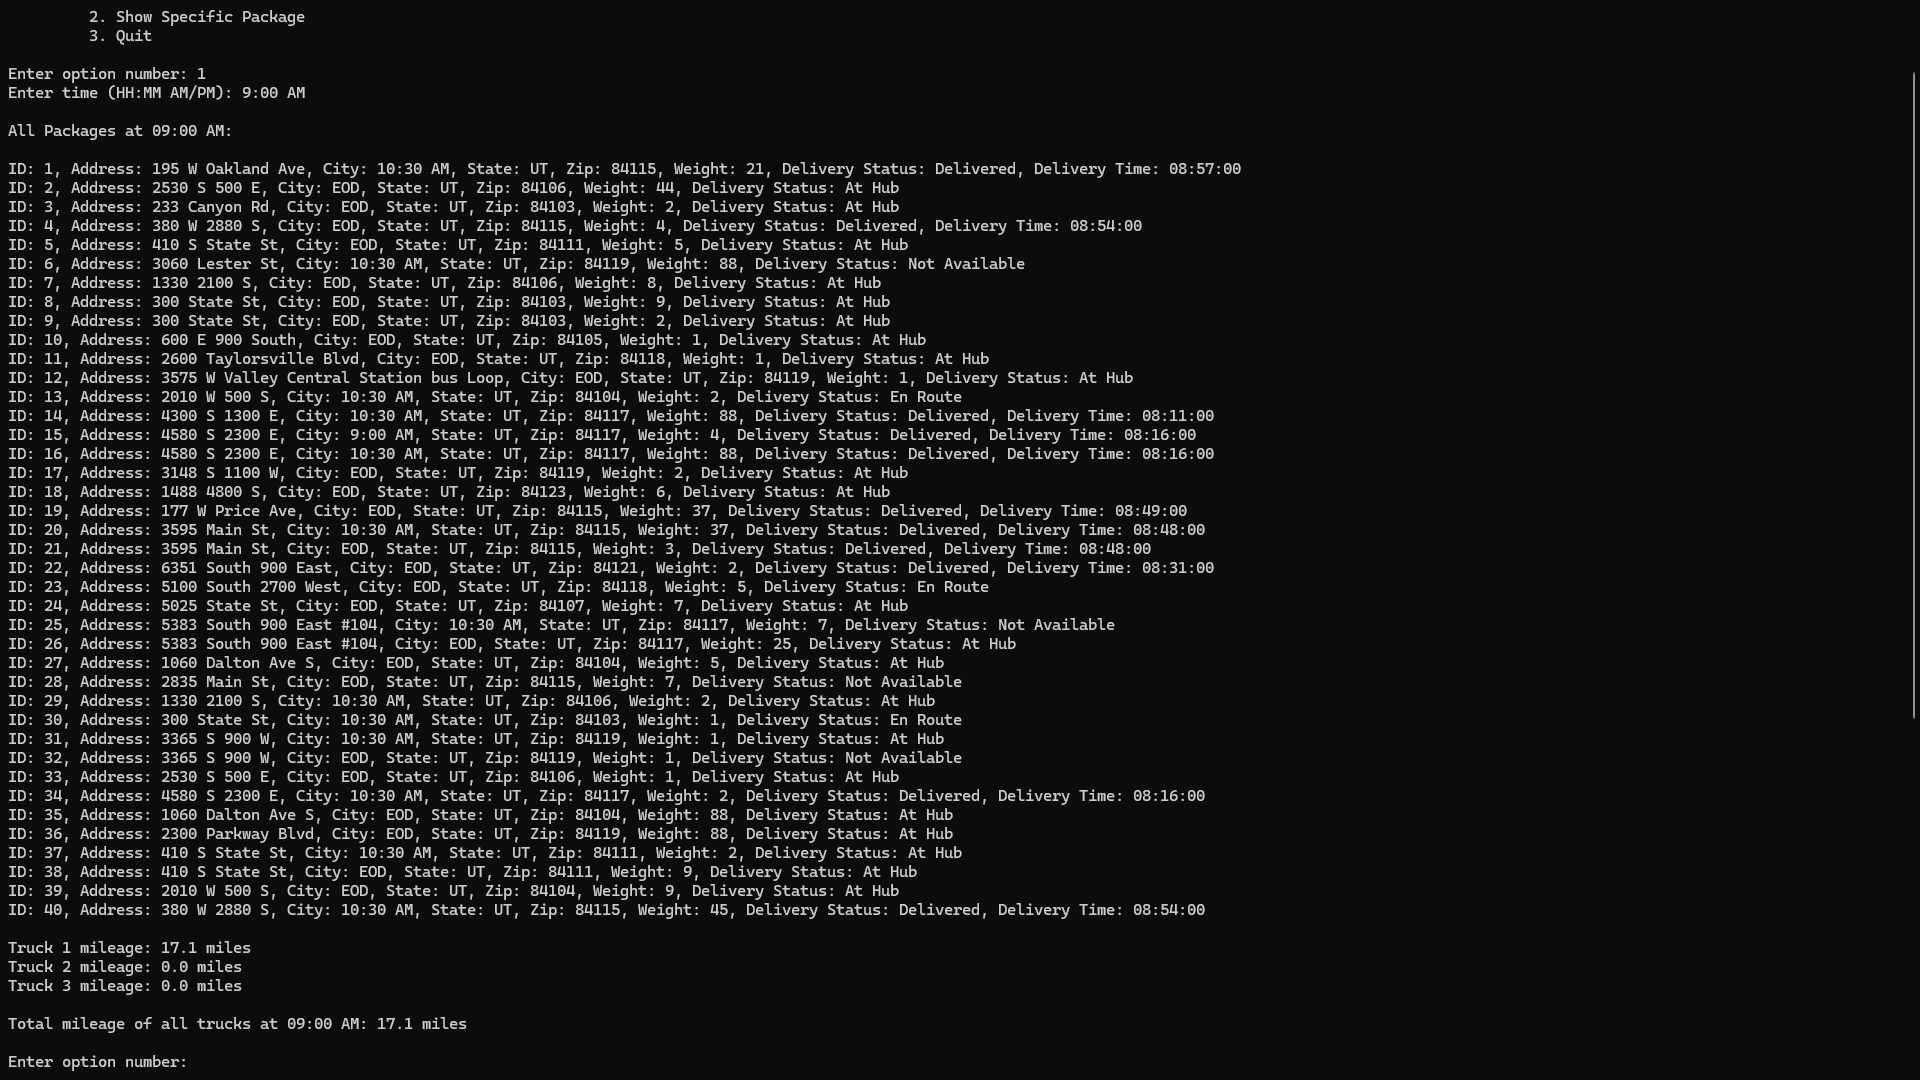
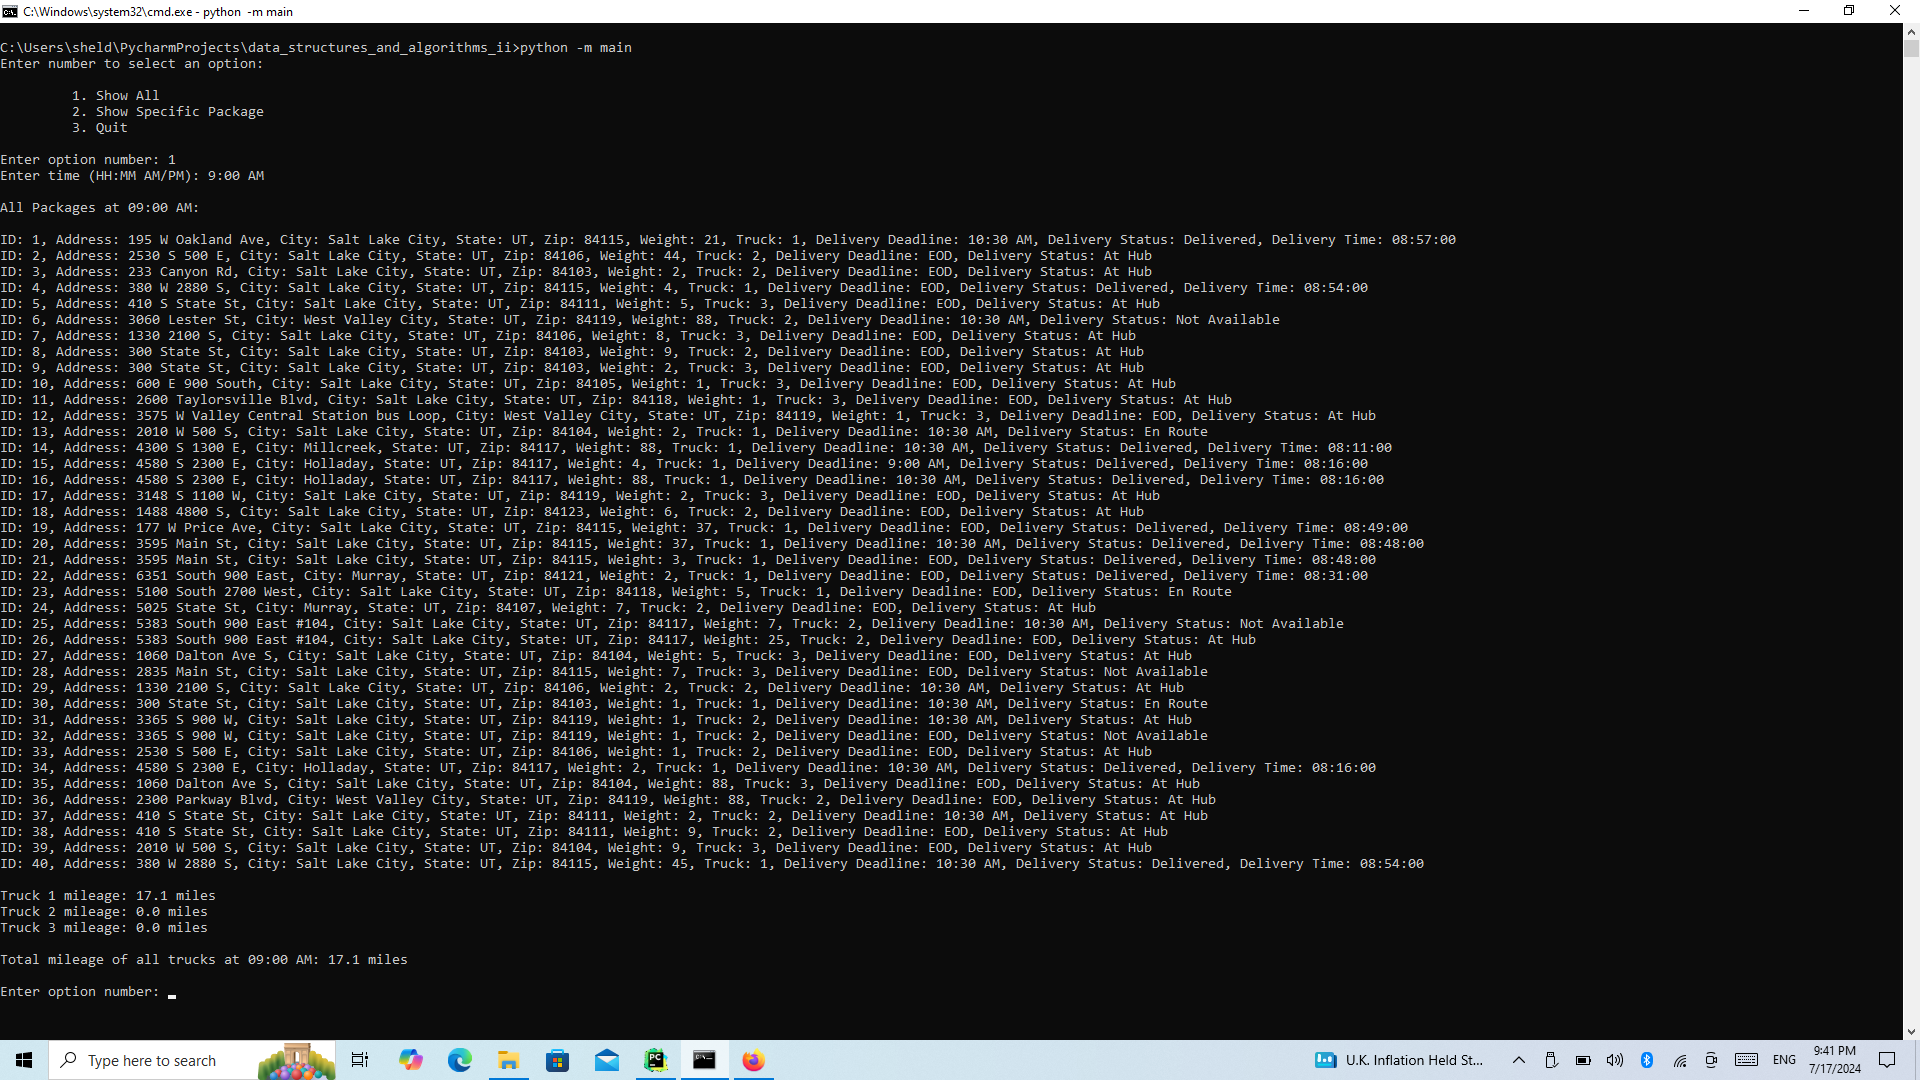
Final submission

Changed region(s): [[0.0, 0.0, 1.0, 1.0]]

diff --git a/cmd_input.py b/cmd_input.py
@@ -48,7 +48,7 @@ def prompt_menu():
             if option == 1:
                 time_input = prompt_time()
                 packages_at_time = package_list_at_time(time_input, __init__.packages)
-                show_all_packages(time_input, packages_at_time, __init__.trucks)
+                show_all_packages(time_input, packages_at_time)
                 show_truck_distances(packages_at_time, time_input, __init__.trucks)
                 option = None
             elif option == 2:
@@ -100,7 +100,6 @@ def package_list_at_time(
     Args:
         time (datetime.time): The time to check the status of the packages.
         packages (hash_table.HashTable): The HashTable of packages in the system.
-        trucks (list): The list of trucks in the system.
 
     Returns:
         list: A list of packages in the system at the specific time.
@@ -126,11 +125,14 @@ def package_list_at_time(
 def show_all_packages(
         time: datetime.time,
         packages_at_time: [package.Package],
-        trucks: list = __init__.trucks,
 ) -> None:
     """
     Show all the packages in the system. The function prints the ID, address ID, deadline, weight, status, and notes of
     each package in the system. The function is used to display all the packages in the system to the user.
+
+    Args:
+        time (datetime.time): The time to check the status of the packages.
+        packages_at_time ([package.Package]): The list of packages in the system at the specific
 
 
     Returns:
@@ -153,11 +155,11 @@ def show_all_packages(
     for package in packages_at_time:  # O(n) - for loop
         if package.delivery_status == "Delivered":
             print(
-                f"ID: {package.id}, Address: {package.address}, City: {package.delivery_deadline}, State: {package.state}, Zip: {package.zip}, Weight: {package.weight_kilo}, Truck: {package.truck_id}, Delivery Status: {package.delivery_status}, Delivery Time: {package.delivery_time}"
+                f"ID: {package.id}, Address: {package.address}, City: {package.city}, State: {package.state}, Zip: {package.zip}, Weight: {package.weight_kilo}, Truck: {package.truck_id}, Delivery Deadline: {package.delivery_deadline}, Delivery Status: {package.delivery_status}, Delivery Time: {package.delivery_time}"
             )
         else:
             print(
-                f"ID: {package.id}, Address: {package.address}, City: {package.delivery_deadline}, State: {package.state}, Zip: {package.zip}, Weight: {package.weight_kilo}, Truck: {package.truck_id}, Delivery Status: {package.delivery_status}"
+                f"ID: {package.id}, Address: {package.address}, City: {package.city}, State: {package.state}, Zip: {package.zip}, Weight: {package.weight_kilo}, Truck: {package.truck_id}, Delivery Deadline: {package.delivery_deadline}, Delivery Status: {package.delivery_status}"
             )
 
     print()
@@ -216,9 +218,8 @@ def show_specific_package(
     package in the system to the user.
 
     Args:
-        package_table (hash_table.HashTable): The HashTable of packages in the system.
         time (datetime.time): The time to check the status of the packages.
-        package_id (int): The ID of the package to display.
+        packages (hash_table.HashTable): The HashTable of packages in the system.
 
     Returns:
         None
@@ -253,11 +254,11 @@ def show_specific_package(
             else:
                 if package.delivery_status == "Delivered":
                     print(
-                        f"\nID: {package.id}, Address: {package.address}, City: {package.delivery_deadline}, State: {package.state}, Zip: {package.zip}, Weight: {package.weight_kilo}, Truck: {package.truck_id}, Delivery Status: {package.delivery_status}, Delivery Time: {package.delivery_time}\n"
+                        f"\nID: {package.id}, Address: {package.address}, City: {package.city}, State: {package.state}, Zip: {package.zip}, Weight: {package.weight_kilo}, Truck: {package.truck_id}, Delivery Deadline: {package.delivery_deadline}, Delivery Status: {package.delivery_status}, Delivery Time: {package.delivery_time}\n"
                     )
                 else:
                     print(
-                        f"\nID: {package.id}, Address: {package.address}, City: {package.delivery_deadline}, State: {package.state}, Zip: {package.zip}, Weight: {package.weight_kilo}, Truck: {package.truck_id}, Delivery Status: {package.delivery_status}\n"
+                        f"\nID: {package.id}, Address: {package.address}, City: {package.city}, State: {package.state}, Zip: {package.zip}, Weight: {package.weight_kilo}, Truck: {package.truck_id}, Delivery Deadline: {package.delivery_deadline}, Delivery Status: {package.delivery_status}\n"
                     )
 
         except ValueError:
